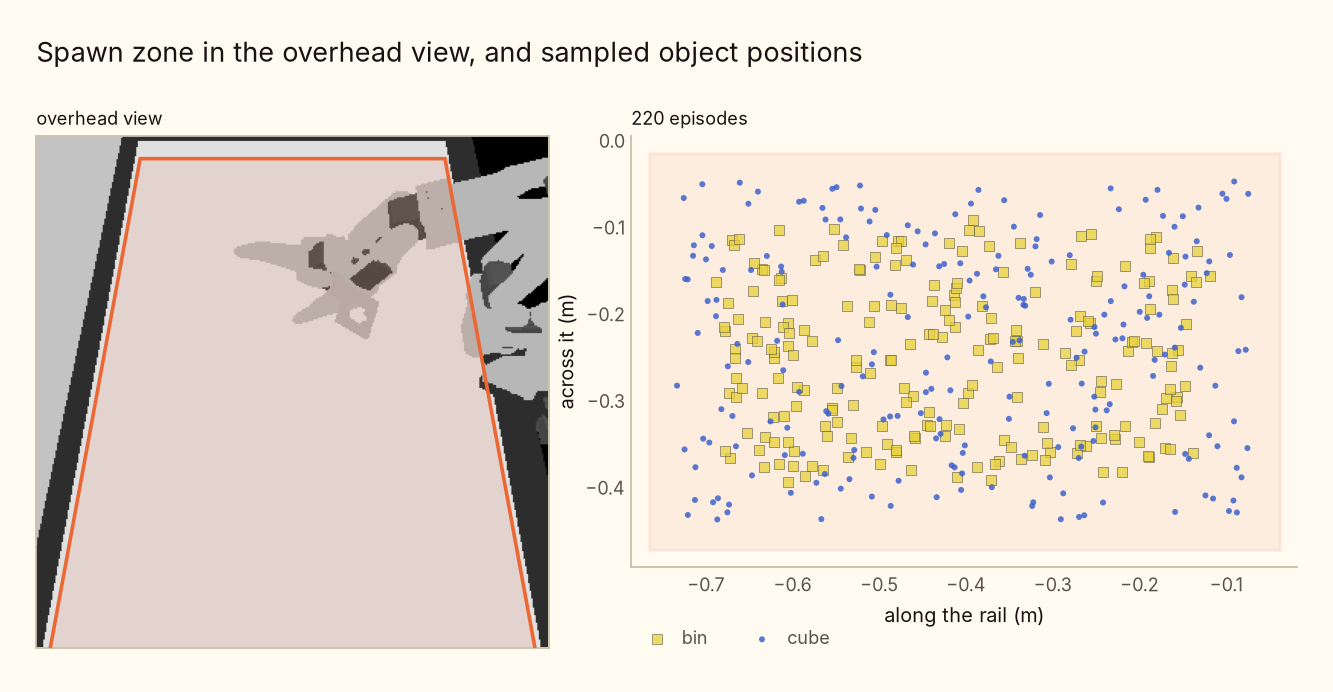
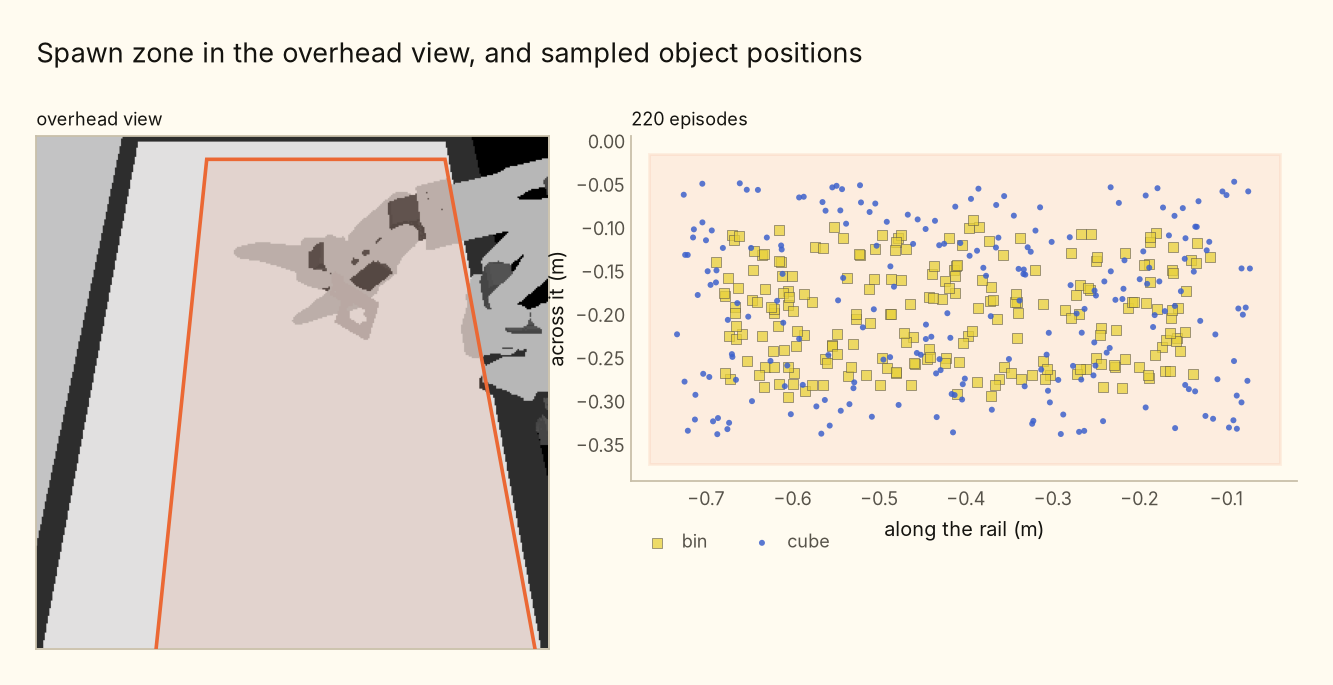
blog: rebase onto the new spawn zone, and tighten the ladder deltas
Zone is 358 x 728 mm now: three edges the overhead camera's footprint, the far edge pulled 100 mm
inside it because top-down reach cannot cross there. Reach still stops 104 mm short of the camera,
so 69% of the zone is completable and success caps near there rather than at 1.0.

fig5 re-rendered against it, since it reads the config at runtime.

diff --git a/blog-viz/fig2_reward_ladder.py b/blog-viz/fig2_reward_ladder.py
@@ -65,7 +65,7 @@ def main():
         ax.annotate("", xy=(i + 0.5, nxt), xytext=(i + 0.5, top),
                     arrowprops=dict(arrowstyle="-|>", color=style.FAINT, lw=1.0,
                                     shrinkA=0, shrinkB=0))
-        ax.text(i + 0.58, (top + nxt) / 2, f"+{nxt - top:g}", ha="left", va="center",
+        ax.text(i + 0.535, (top + nxt) / 2, f"+{nxt - top:g}", ha="left", va="center",
                 fontsize=style.T_FOOT, color=style.FAINT)
 
     ax.set_xlim(-0.62, len(STAGES) - 0.30)

diff --git a/draft.md b/draft.md
@@ -40,7 +40,9 @@ the task for the robot is to pick up a cube on the work surface and place it in 
 - cube: 20 mm, ~3.2 g, blue.
 - bin: 100 mm square, 30 mm tall, 2 mm walls, so a 96 mm opening 28 mm deep. yellow.
 
-in the simulation, the cube and bin's positions and rotations are randomized for each episode. both come from one zone, 458 × 728 mm, the bin placed first and the cube rejection-sampled until it clears the bin by 50 mm.
+in the simulation, the cube and bin's positions and rotations are randomized for each episode. both come from one zone, 358 × 728 mm, the bin placed first and the cube rejection-sampled until it clears the bin by 50 mm.
+
+three edges of that zone are the overhead camera's footprint, measured at both the cube's height and the taller bin's rim, since the policy is vision only and a spawn out of frame is unobservable rather than merely hard. the far edge is pulled 100 mm inside that, because top-down reach cannot cross it at all. reach still stops 104 mm short of where the camera stops, so 69% of the zone is completable and success caps near there rather than at 1.0.
 
 ![the spawn zone, and episodes drawn from it](blog-viz/out/fig5_spawn_zone.png)
 
@@ -83,18 +85,18 @@ first the predicates, all read off the sim state:
 - $\mathrm{G}$: the cube is grasped, both jaws in contact and closing on it
 - $\mathrm{B}$: the cube is horizontally inside the bin's 96 mm opening, $|p^{x}_{\text{item}} - p^{x}_{\text{bin}}| < 0.048$ and likewise in $y$
 - $\mathrm{T}$: the robot is touching the cube
-- $\mathrm{I}$: the cube is *in* the bin, $\mathrm{B}$ and its lowest corner within 5 mm of the bin floor
+- $\mathrm{I}$: the cube is _in_ the bin, $\mathrm{B}$ and its lowest corner within 5 mm of the bin floor
 - $\Sigma = \mathrm{I} \wedge \|\dot p_{\text{item}}\| \le 0.02 \wedge \neg\mathrm{T} \wedge \text{robot static} \wedge \neg\text{touching the bin}$
 
 and the distances: $d_{xy}$ and $d_z$ from the tool centre to the cube, $d_g = \|g - p_{\text{item}}\|$ from the cube to the drop point $g$, and $o \in [0,1]$ for how far the jaw is open.
 
-| stage | condition | reward |
-| --- | --- | --- |
-| a. reach | otherwise | $r_{\text{reach}} \in [0, 1.5]$ |
-| b. grasped | $\mathrm{G} \wedge \neg\mathrm{B}$ | $2 + \big(1 - \tanh(5 d_g)\big) \in [2, 3]$ |
-| c. holding over the bin | $\mathrm{B} \wedge \mathrm{T}$ | $4 + o \in [4, 5]$ |
-| d. released over the bin | $\mathrm{B} \wedge \neg\mathrm{T}$ | $6$ |
-| e. success | $\Sigma$ | $10$ |
+| stage                    | condition                          | reward                                      |
+| ------------------------ | ---------------------------------- | ------------------------------------------- |
+| a. reach                 | otherwise                          | $r_{\text{reach}} \in [0, 1.5]$             |
+| b. grasped               | $\mathrm{G} \wedge \neg\mathrm{B}$ | $2 + \big(1 - \tanh(5 d_g)\big) \in [2, 3]$ |
+| c. holding over the bin  | $\mathrm{B} \wedge \mathrm{T}$     | $4 + o \in [4, 5]$                          |
+| d. released over the bin | $\mathrm{B} \wedge \neg\mathrm{T}$ | $6$                                         |
+| e. success               | $\Sigma$                           | $10$                                        |
 
 $$r_{\text{reach}} = \underbrace{0.5\big(1 - \tanh(5\,d_{xy})\big)}_{\text{align over the cube}} \;+\; \mathbb{1}[\,d_{xy} < 0.03\,]\underbrace{0.5\big(1 - \tanh(5\,d_z)\big)}_{\text{then descend}} \;+\; \mathbb{1}[\,d_{xy} < 0.03 \,\wedge\, d_z < 0.02\,]\underbrace{0.5\,(1 - o)}_{\text{then close}}$$
 
@@ -283,16 +285,6 @@ two exclusions earn their place. the gripper is exempt from the shared budget, b
 
 > _deploy `--viz` screenshot pending._
 
-### only one of them survived
-
-here is the part i did not expect. in simulation all four encoders learn the task and rank in a sensible order, 0.52 to 0.88 sustained. on the real robot that ranking collapses into a binary. only `dino_patch` works. the others do not degrade gracefully, they fail.
-
-with hindsight the explanation is in the squint figure. at 32 px the real cube is two pixels and hue is all the CNN can key on, which makes it a colour detector, and colour is exactly the channel a cheap USB camera under a lightbox is least reliable about. that is what the gain and gamma in the mapping correct for and what the augmentation trains against, but there is no other cue to fall back on when the correction is imperfect. the collapsed DINOv2 variants have the real-image prior but have thrown away where anything is. one vector per camera says "a blue thing is present" far more easily than "it is there".
-
-the dense grid keeps both, and it is the only one of the four with enough left over to absorb the difference between a render and a rectified photograph of a room.
-
-> _closer clip pending: a continuous real rollout, no human in the loop._
-
 # takeaway
 
 this is just a simple proof of concept (which is reliable and reproducible), it took me 1 week for the rl env and another to successfully adapt squint and more to the rl environment and to real life.
@@ -300,13 +292,6 @@ this is just a simple proof of concept (which is reliable and reproducible), it 
 some learnings as of now:
 
 - there is nothing i can do in sim to reliably compensate for how crap the sts3215 response is. it just sucks. i can throw a bunch of domain randomization at it, but for the love of god, i don't want to do it like that.
-- patch policy greatly improves policy performance. global mean and cls token cannot compare, in sim or in real. i spent a good amount of time trying to figure out a way there and then the paper dropped and i was like this is it.
+- pretrained models help generalization and improve sample efficiency (u can say duh sherlock). in my case, only my dino backbone models transfer to the real world, so it holds some weight, or i can say damn, maybe i'm stupid with doing squint.
+- patch policy greatly improves policy performance. global mean and cls token cannot compare, in sim or in real. i spent a good amount of time trying to figure out a way there, then [the paper dropped out of nowhere](https://x.com/jeffacce/status/2080017577749684718?s=20) and i was like this is it. god level timing.
 - visual is one thing, matching control behaviors and system delay is a whole other problem set, which i have not solved.
-
-so the simulation number was never the thing to optimize. an encoder that reaches 0.71 in sim and zero on the robot is not eighty percent as good as one that reaches 0.88 and works.
-
-rl is more than just picking and placing stuff. since this is visual and proprio only, the hardest problem is now engineering the reward function.
-
-but even before the reward function, we can make the policy learn useful behavior through prior demonstrations.
-
-therefore, this work unlocks an immense space for hobbyists to explore and reproduce state of the art results in modern robot learning.
